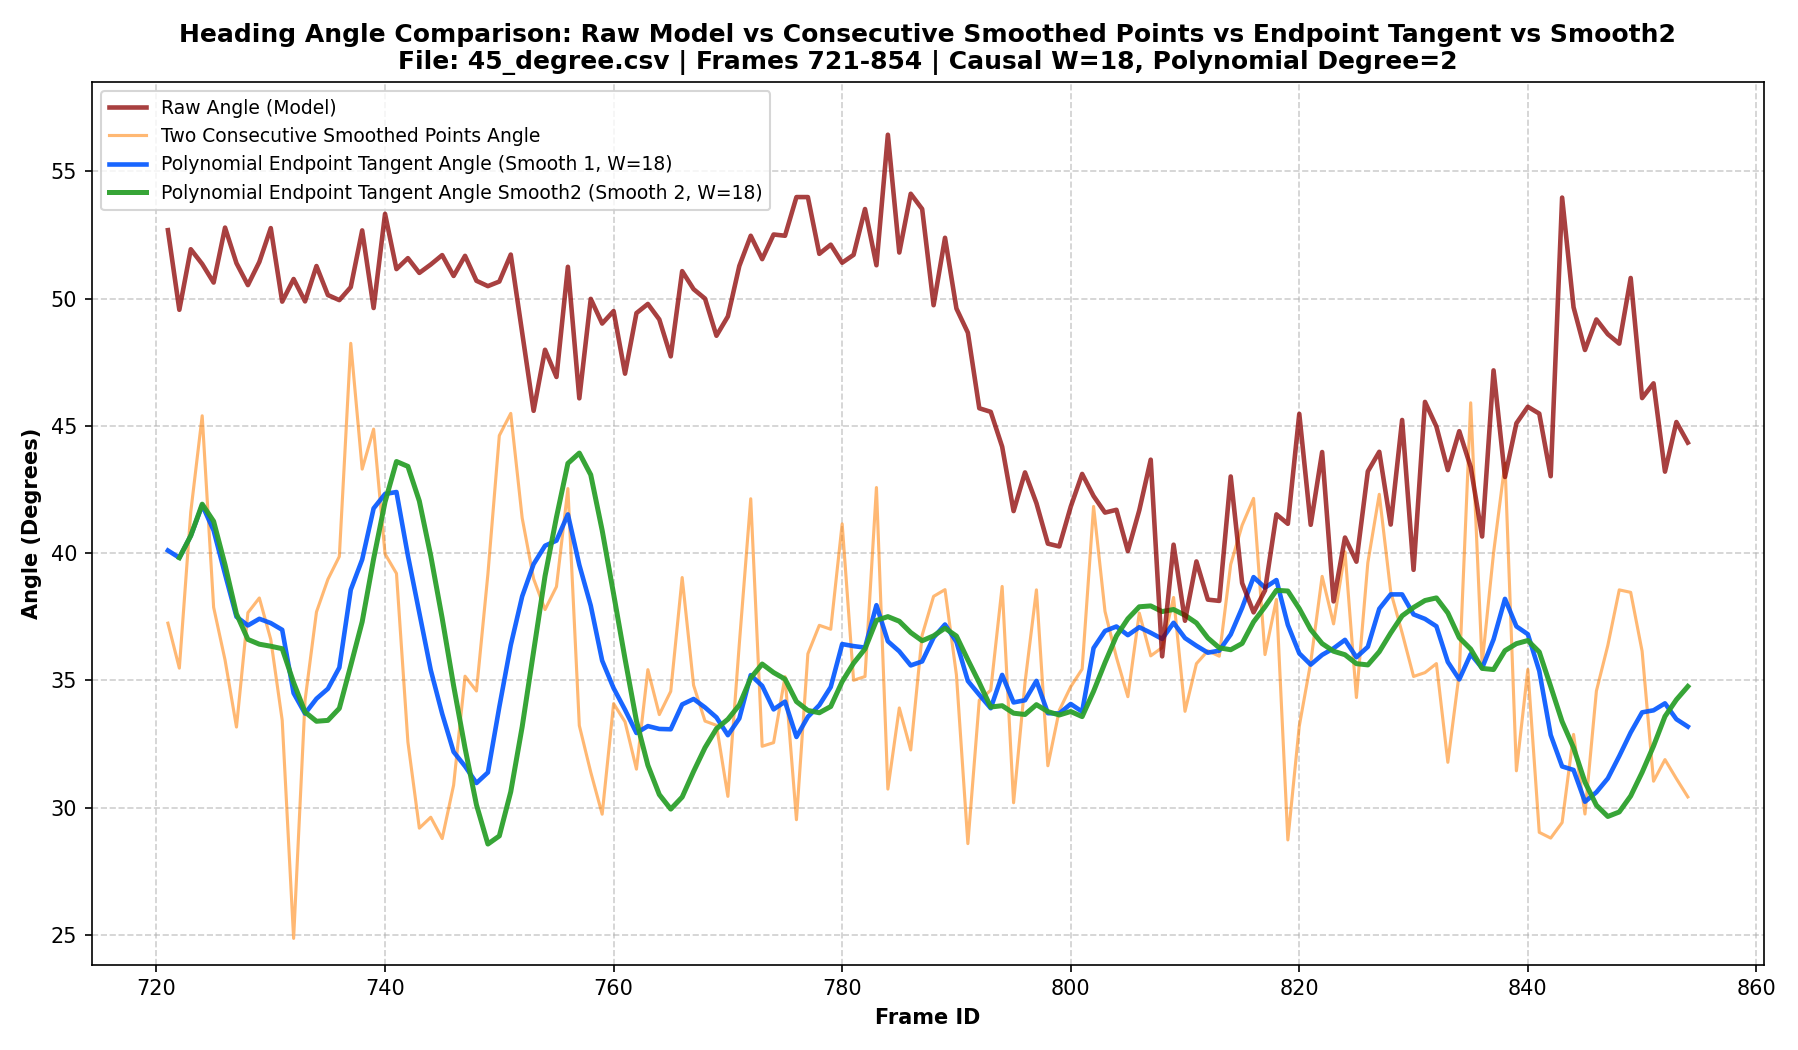
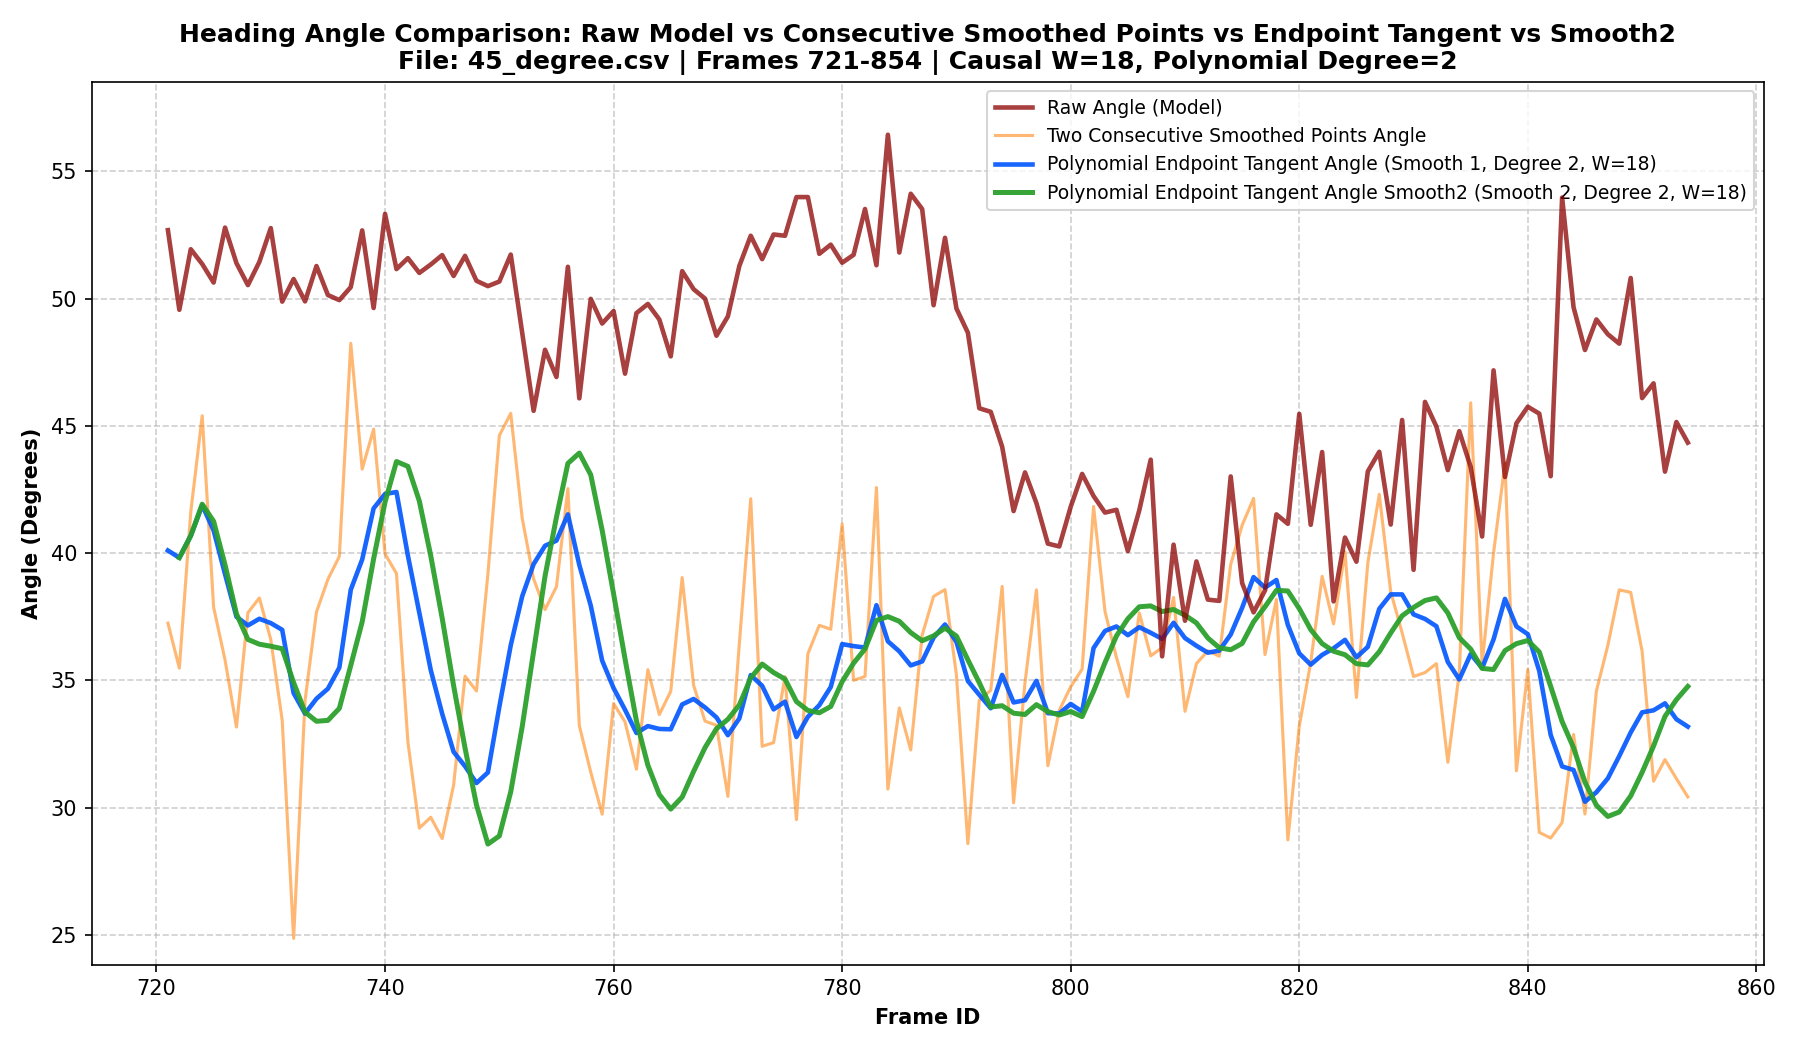
update

Changed region(s): [[0.5295, 0.0914, 0.9655, 0.2133], [0.0623, 0.0914, 0.436, 0.2133]]

diff --git a/260814/tools/plot_poly_tangent_angle_comparison.py b/260814/tools/plot_poly_tangent_angle_comparison.py
@@ -386,8 +386,9 @@ def save_trajectory_comparison(
     figure.tight_layout()
 
     output_dir.mkdir(parents=True, exist_ok=True)
+    deg_suffix = f"_deg{poly_degree}" if poly_degree != DEFAULT_POLY_DEGREE else ""
     output_path = output_dir / (
-        f"{csv_path.stem}_poly_least_squares_2d_trajectory_w{window_size}.png"
+        f"{csv_path.stem}_poly_least_squares_2d_trajectory{deg_suffix}_w{window_size}.png"
     )
     figure.savefig(
         output_path,
@@ -395,7 +396,7 @@ def save_trajectory_comparison(
         bbox_inches="tight",
         pad_inches=0.15,
     )
-    if window_size == DEFAULT_WINDOW_SIZE:
+    if window_size == DEFAULT_WINDOW_SIZE and poly_degree == DEFAULT_POLY_DEGREE:
         default_path = output_dir / f"{csv_path.stem}_poly_least_squares_2d_trajectory.png"
         figure.savefig(
             default_path,
@@ -408,67 +409,6 @@ def save_trajectory_comparison(
     print(f"[SUCCESS] Đã lưu quỹ đạo: {output_path}")
     return output_path
 
-
-def plot_angle_comparison(
-    csv_path: Path,
-    output_dir: Path,
-    window_size: int,
-    poly_degree: int,
-    seed: int,
-    buffer_frames: int,
-    min_speed: float,
-    min_block_length: int,
-    vector_epsilon: float,
-    dpi: int,
-) -> tuple[Path, Path]:
-    dataframe = load_valid_dataframe(csv_path)
-    angle_column = find_angle_column(dataframe)
-    segment = find_full_pass_moving_segment(
-        dataframe,
-        buffer_frames=buffer_frames,
-        seed=seed,
-        min_speed=min_speed,
-        min_block_length=min_block_length,
-    )
-    if len(segment) <= window_size:
-        raise ValueError(
-            f"đoạn chuyển động chỉ có {len(segment)} mẫu, cần hơn {window_size} mẫu"
-        )
-
-    x_values = segment["x_center"].to_numpy(dtype=float)
-    y_values = segment["y_center"].to_numpy(dtype=float)
-    raw_angles = segment[angle_column].to_numpy(dtype=float)
-    if "frame_id" in segment.columns:
-        frame_ids = segment["frame_id"].to_numpy(dtype=float)
-    else:
-        frame_ids = np.arange(len(segment), dtype=float)
-
-    angle_series = calculate_angle_series(
-        x_values,
-        y_values,
-        raw_angles,
-        window_size=window_size,
-        poly_degree=poly_degree,
-        vector_epsilon=vector_epsilon,
-    )
-    trajectory_output_path = save_trajectory_comparison(
-        csv_path=csv_path,
-        output_dir=output_dir,
-        x_values=x_values,
-        y_values=y_values,
-        smooth_x=angle_series["smooth_x"],
-        smooth_y=angle_series["smooth_y"],
-        frame_ids=frame_ids,
-        window_size=window_size,
-        poly_degree=poly_degree,
-        dpi=dpi,
-    )
-    valid_start = angle_series["valid_start"]
-    plot_frames = frame_ids[valid_start:]
-    raw_plot = angle_series["raw_angle"][valid_start:]
-    tangent_plot = angle_series["poly_tangent_angle"][valid_start:]
-    tangent_smooth2_plot = angle_series["poly_tangent_smooth2"][valid_start:]
-    smooth_point_plot = angle_series["smooth_point_angle"][valid_start:]
 
 def save_3line_angle_plot(
     csv_path: Path,
@@ -581,7 +521,7 @@ def save_4line_angle_plot(
         linewidth=2.2,
         linestyle="-",
         alpha=0.9,
-        label=f"Polynomial Endpoint Tangent Angle (Smooth 1, W={window_size})",
+        label=f"Polynomial Endpoint Tangent Angle (Smooth 1, Degree {poly_degree}, W={window_size})",
         zorder=7,
     )
     axis.plot(
@@ -591,15 +531,16 @@ def save_4line_angle_plot(
         linewidth=2.4,
         linestyle="-",
         alpha=0.95,
-        label=f"Polynomial Endpoint Tangent Angle Smooth2 (Smooth 2, W={window_size})",
+        label=f"Polynomial Endpoint Tangent Angle Smooth2 (Smooth 2, Degree {poly_degree}, W={window_size})",
         zorder=8,
     )
 
+    deg_label = "Bậc 1 (Linear)" if poly_degree == 1 else f"Degree={poly_degree}"
     axis.set_title(
-        "Heading Angle Comparison: Raw Model vs Consecutive Smoothed Points "
-        "vs Endpoint Tangent vs Smooth2\n"
+        f"Heading Angle Comparison: Raw Model vs Consecutive Smoothed Points "
+        f"vs Endpoint Tangent vs Smooth2\n"
         f"File: {csv_path.name} | Frames {frame_start}-{frame_end} | "
-        f"Causal W={window_size}, Polynomial Degree={poly_degree}",
+        f"Causal W={window_size}, Polynomial {deg_label}",
         fontsize=12,
         fontweight="bold",
     )
@@ -611,7 +552,8 @@ def save_4line_angle_plot(
     figure.tight_layout()
 
     output_dir.mkdir(parents=True, exist_ok=True)
-    out_path = output_dir / f"{csv_path.stem}_poly_tangent_angle_comparison_w{window_size}.png"
+    deg_suffix = f"_deg{poly_degree}" if poly_degree != DEFAULT_POLY_DEGREE else ""
+    out_path = output_dir / f"{csv_path.stem}_poly_tangent_angle_comparison{deg_suffix}_w{window_size}.png"
     figure.savefig(out_path, dpi=dpi, bbox_inches="tight", pad_inches=0.15)
     plt.close(figure)
     print(f"[SUCCESS] Đã lưu góc 4 đường: {out_path}")
@@ -682,20 +624,21 @@ def plot_angle_comparison(
     frame_start = int(plot_frames[0])
     frame_end = int(plot_frames[-1])
 
-    # Lưu đồ thị 3 đường (dành cho Mục 2)
-    save_3line_angle_plot(
-        csv_path=csv_path,
-        output_dir=output_dir,
-        plot_frames=plot_frames,
-        raw_plot=raw_plot,
-        tangent_plot=tangent_plot,
-        smooth_point_plot=smooth_point_plot,
-        window_size=window_size,
-        poly_degree=poly_degree,
-        dpi=dpi,
-    )
+    # Chỉ lưu đồ thị 3 đường khi chạy mặc định bậc 2
+    if poly_degree == DEFAULT_POLY_DEGREE:
+        save_3line_angle_plot(
+            csv_path=csv_path,
+            output_dir=output_dir,
+            plot_frames=plot_frames,
+            raw_plot=raw_plot,
+            tangent_plot=tangent_plot,
+            smooth_point_plot=smooth_point_plot,
+            window_size=window_size,
+            poly_degree=poly_degree,
+            dpi=dpi,
+        )
 
-    # Lưu đồ thị 4 đường (dành cho Mục 3 và Mục 4)
+    # Lưu đồ thị 4 đường
     angle_output_path = save_4line_angle_plot(
         csv_path=csv_path,
         output_dir=output_dir,
